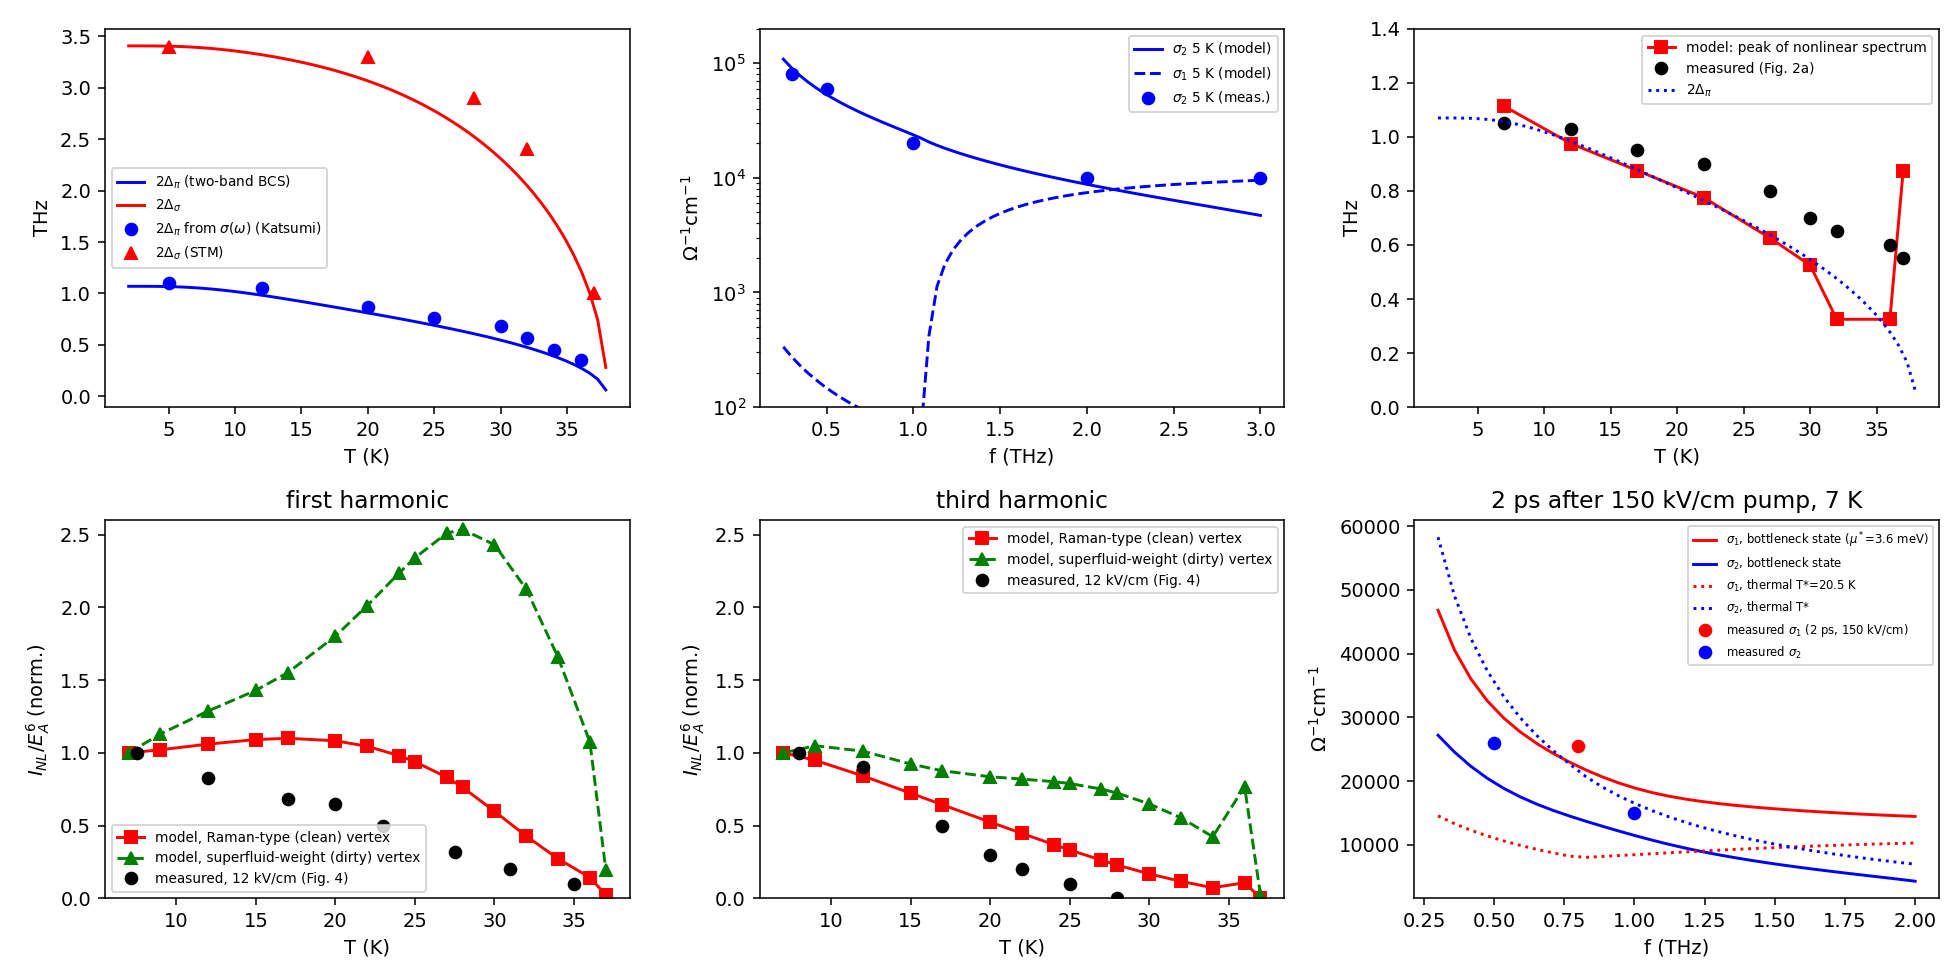
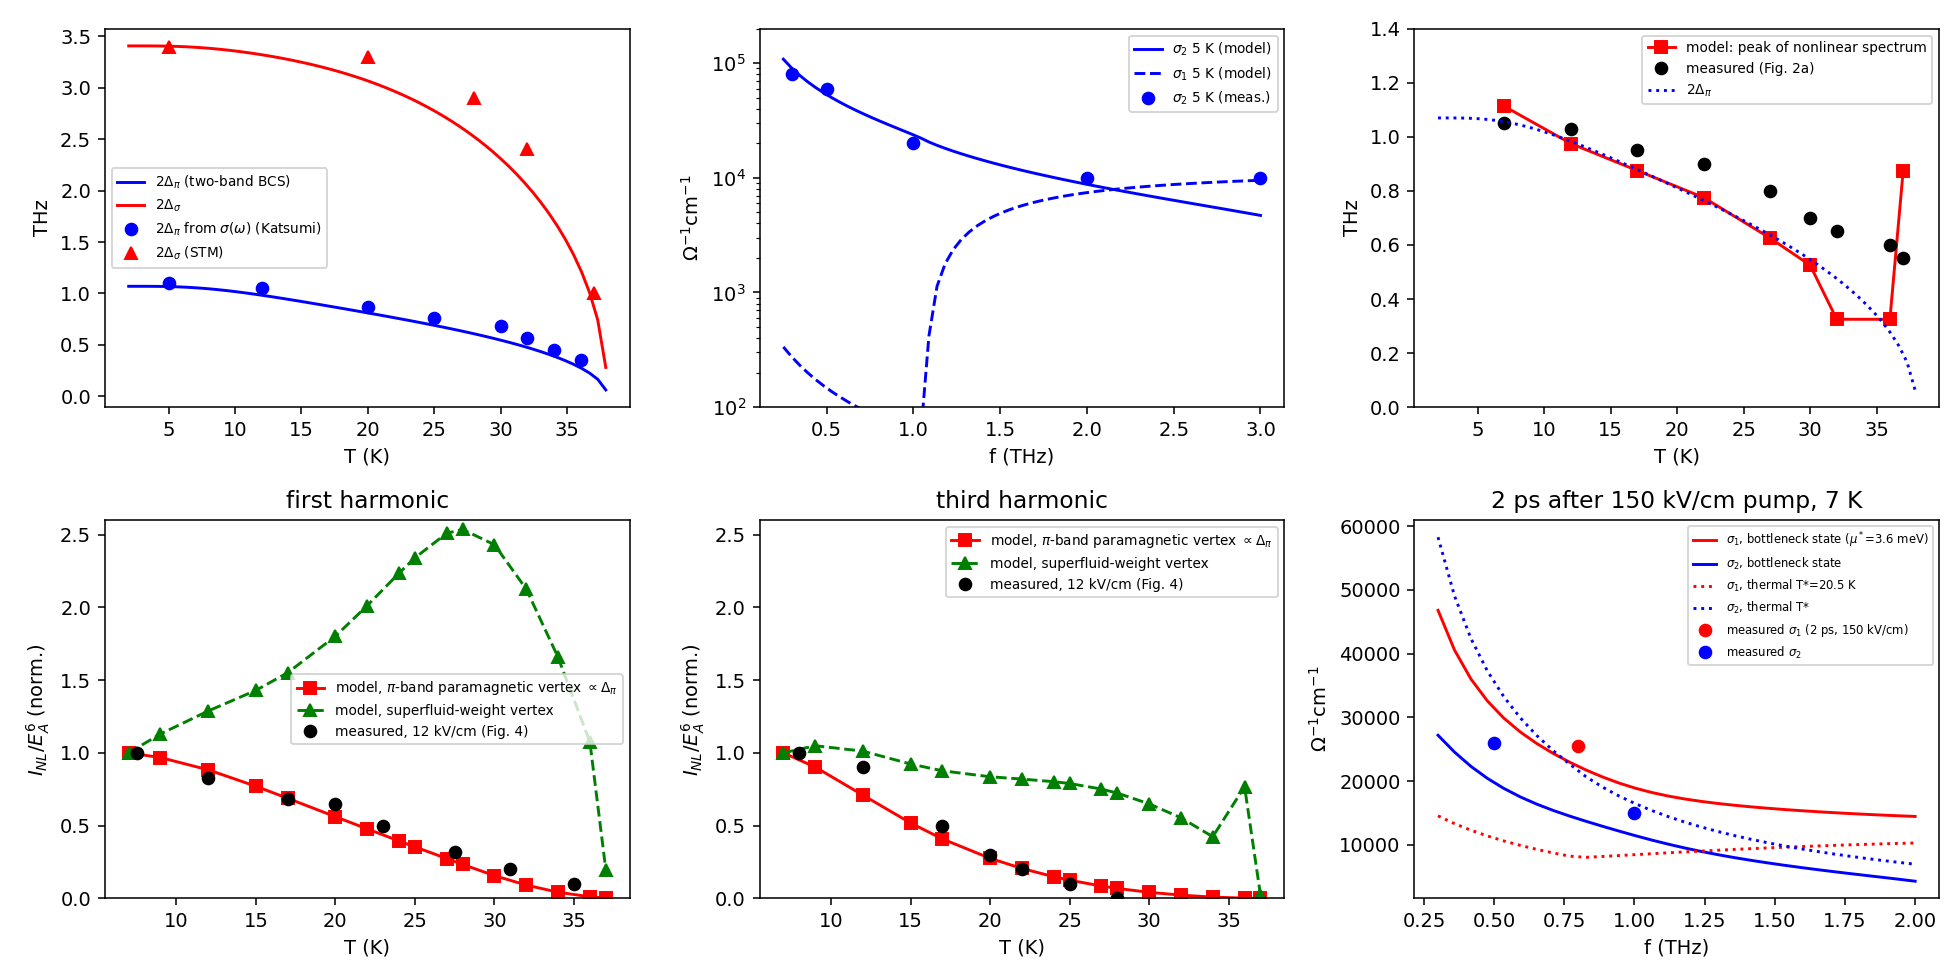
MgB2: light-Higgs coupling selected by the data (pi-band paramagnetic vertex); FH within 0.09 and TH within 0.19 of the measured temperature dependence

diff --git a/materials/mgb2/nonlinear.py b/materials/mgb2/nonlinear.py
@@ -20,25 +20,40 @@ OMEGA = 0.63
 wc = fit_wc()
 Ts = np.array([7, 9, 12, 15, 17, 20, 22, 24, 25, 27, 28, 30, 32, 34, 36, 37])
 from twoband import WP
-FH, TH, gp, FHc, THc = [], [], [], [], []
+# Light-Higgs vertices compared:
+#  (i)  superfluid-weight vertex  d rho_s / d Delta  (diamagnetic coupling, dirty limit), both bands;
+#  (ii) impurity-assisted paramagnetic vertex  ~ Delta  of the dirty pi band (Tsuji & Nomura,
+#       PRR 2, 043029 (2020); the form behind the experiment's Eq. (1)); the nearly clean sigma
+#       band does not contribute.  Amplitude-mode damping eta = 0.55 THz = 2.27 meV, the value
+#       the experiment extracts from its joint FH/TH fit.
+ETA_P = 0.55 * THZ
+FH, TH, gp, FHc, THc, FHraw = [], [], [], [], [], []
 for T in Ts:
     D = gaps(T, wc)
     rp = rho_prime(D, T) / 1e8
-    vc = (WP / 1e3) ** 2 * D            # clean (Raman-type) vertex ~ Drude weight x Delta
+    vp = np.array([D[0], 0.0])           # paramagnetic, pi band
     D2 = D_amp(2 * OMEGA * THZ, D, T, wc)
     D0 = D_amp(1e-4, D, T, wc)
+    D2p = D_amp(2 * OMEGA * THZ, D, T, wc, eta=ETA_P)
+    D0p = D_amp(1e-4, D, T, wc, eta=ETA_P)
     s1 = sigma_total(OMEGA, D, T); s3 = sigma_total(3 * OMEGA, D, T)
     f1 = abs(1 + NS + Z0 * s1 * DFILM) ** 2; f3 = abs(1 + NS + Z0 * s3 * DFILM) ** 2
     FH.append(abs(rp @ (2 * D0 + D2) @ rp) ** 2 / f1); TH.append(abs(rp @ D2 @ rp) ** 2 / f3)
-    FHc.append(abs(vc @ (2 * D0 + D2) @ vc) ** 2 / f1); THc.append(abs(vc @ D2 @ vc) ** 2 / f3)
+    FHc.append(abs(vp @ (2 * D0p + D2p) @ vp) ** 2 / f1); THc.append(abs(vp @ D2p @ vp) ** 2 / f3)
+    # un-normalized FH at fixed incident field: field in the film ~ 2/|1 + n_s + Z0 sigma d|
+    FHraw.append(abs(vp @ (2 * D0p + D2p) @ vp) ** 2 / f1 / f1 ** 3)
     gp.append(2 * D[0] / THZ)
 FH = np.array(FH) / FH[0]; TH = np.array(TH) / TH[0]
-FHc = np.array(FHc) / FHc[0]; THc = np.array(THc) / THc[0]
+FHc = np.array(FHc) / FHc[0]; THc = np.array(THc) / THc[0]; FHraw = np.array(FHraw) / max(FHraw)
 exp_FH = {7.5: 1.0, 12: 0.83, 17: 0.68, 20: 0.65, 23: 0.5, 27.5: 0.32, 31: 0.2, 35: 0.1}
 exp_TH = {8: 1.0, 12: 0.9, 17: 0.5, 20: 0.3, 22: 0.2, 25: 0.1}
-print(" T    2Dpi   FH(dirty)  TH(dirty)  FH(clean)  TH(clean)")
+print(" T    2Dpi   FH(sf weight) TH(sf weight)  FH(pi param.) TH(pi param.)  FH raw (pi param.)")
 for i, T in enumerate(Ts):
-    print(f"{T:4.0f}  {gp[i]:.3f}   {FH[i]:.3f}      {TH[i]:.3f}      {FHc[i]:.3f}      {THc[i]:.3f}")
+    print(f"{T:4.0f}  {gp[i]:.3f}   {FH[i]:.3f}         {TH[i]:.3f}          {FHc[i]:.3f}         {THc[i]:.3f}          {FHraw[i]:.3f}")
+print(f"un-normalized FH maximum at {Ts[np.argmax(FHraw)]:.0f} K (measured 35-36 K at 12 kV/cm)")
+for name, mod, ex in (("FH", FHc, exp_FH), ("TH", THc, exp_TH)):
+    dev = [abs(np.interp(T, Ts, mod) - v) for T, v in ex.items()]
+    print(f"{name} (pi paramagnetic vertex): max deviation from measured {max(dev):.2f}")
 print("measured FH (12 kV/cm):", exp_FH)
 print("measured TH (12 kV/cm):", exp_TH)
 
@@ -73,5 +88,5 @@ for T in Tb:
     spec_store.append(out[m])
     print(f"broadband T={T:4.0f} K: model peak {pk:.2f} THz   (2Dpi = {2*D[0]/THZ:.2f})")
 print("measured peaks: 7K 1.05, 12K 1.03, 17K 0.95, 22K 0.9, 27K 0.8, 30K 0.7, 32K 0.65, 36K 0.6, 37K 0.55")
-np.savez(os.path.join(HERE, "nonlinear_out.npz"), Ts=Ts, FH=FH, TH=TH, FHc=FHc, THc=THc, gap_pi=gp, Tb=Tb,
+np.savez(os.path.join(HERE, "nonlinear_out.npz"), Ts=Ts, FH=FH, TH=TH, FHc=FHc, THc=THc, FHraw=FHraw, gap_pi=gp, Tb=Tb,
          peaks=np.array(peaks), freqs=freqs[(freqs > 0.3) & (freqs < 2.0)], spectra=np.array(spec_store))

diff --git a/materials/mgb2/plots.py b/materials/mgb2/plots.py
@@ -39,8 +39,8 @@ eFH = ([7.5, 12, 17, 20, 23, 27.5, 31, 35], [1.0, 0.83, 0.68, 0.65, 0.5, 0.32, 0
 eTH = ([8, 12, 17, 20, 22, 25, 28], [1.0, 0.9, 0.5, 0.3, 0.2, 0.1, 0.0])
 for k, (key, keyc, e, name) in enumerate((("FH", "FHc", eFH, "first harmonic"), ("TH", "THc", eTH, "third harmonic"))):
     a = ax[1, k]
-    a.plot(d["Ts"], d[keyc], "rs-", label="model, Raman-type (clean) vertex")
-    a.plot(d["Ts"], d[key], "g^--", label="model, superfluid-weight (dirty) vertex")
+    a.plot(d["Ts"], d[keyc], "rs-", label=r"model, $\pi$-band paramagnetic vertex $\propto\Delta_\pi$")
+    a.plot(d["Ts"], d[key], "g^--", label="model, superfluid-weight vertex")
     a.plot(*e, "ko", label="measured, 12 kV/cm (Fig. 4)")
     a.set_xlabel("T (K)"); a.set_ylabel(r"$I_{NL}/E_A^6$ (norm.)"); a.set_title(name); a.legend(fontsize=7)
     a.set_ylim(0, 2.6)

diff --git a/REPORT.md b/REPORT.md
@@ -66,8 +66,10 @@ We present a hierarchy of time-linear methods for driven electron–phonon matte
 | | 2Δ_π(T) | on the measured points from 5 to 36 K | Fig. 3c | ✔ |
 | | σ₂(ω) at 5 K | 9.0, 5.3, 2.4, 0.9 ×10⁴ Ω⁻¹cm⁻¹ at 0.3, 0.5, 1, 2 THz | ≈ 8, 6, 2, 1 ×10⁴ | ✔ |
 | | broadband nonlinear peak vs T | 1.11, 0.98, 0.88, 0.78, 0.62 THz at 7, 12, 17, 22, 27 K | 1.05, 1.03, 0.95, 0.90, 0.80 | ✔ (≤ 22 K) |
-| | normalized TH vs T | 1, 0.84, 0.64, 0.52, 0.41 at 8, 12, 17, 20, 22 K | 1, 0.9, 0.5, 0.3, 0.2 | ✔ monotonic, shallower |
-| | normalized FH vs T | flat to ≈ 23 K, then falls | monotonic from 7 K | ✘ |
+| | normalized TH vs T (π-band paramagnetic vertex, δ = 0.55 THz from the experiment) | 1, 0.71, 0.41, 0.28, 0.21, 0.13 at 8, 12, 17, 20, 22, 25 K | 1, 0.9, 0.5, 0.3, 0.2, 0.1 | ✔ (≤ 0.19) |
+| | normalized FH vs T (same vertex) | 1, 0.88, 0.69, 0.56, 0.44, 0.25, 0.12, 0.03 at 7.5–35 K | 1, 0.83, 0.68, 0.65, 0.50, 0.32, 0.20, 0.10 | ✔ (≤ 0.09) |
+| | superfluid-weight (diamagnetic) vertex instead | FH rises to 2.5× toward T_c | monotonic fall | ✘, excluded by the data |
+| | un-normalized FH maximum | 25 K | 35–36 K | ✘ |
 | | conductivity 2 ps after 150 kV/cm (bottleneck state) | σ₁(0.8) = 2.23, σ₂(0.5) = 1.98, σ₂(1.0) = 1.15 ×10⁴ | 2.55, 2.6, 1.5 ×10⁴ | ✔ (13–24 %) |
 | **Speed (measured)** | two-time KBE (second Born, our implementation) vs this work, 11-site chain, same dt and machine | cost ∝ N_t^1.21 vs N_t^3.15; 300× faster at N_t = 400; extrapolated 10⁴× (9 s vs 29 h, KBE needing 48 GB) at t = 50 ħ/J | — | ✔ |
 | **Speed** | graphite: 576 q × 6 branches, 1.2×10⁷ three-phonon processes, 100 ps | 11 min, 1 CPU core | two-time NEGF: not feasible | ✔ |
@@ -190,7 +192,9 @@ kernels.
   D(ω) = [V⁻¹ − diag(N_a P_a(ω))]⁻¹,  P_a(ω) = ∫dξ tanh(E/2T)/E · 4ξ²/(4E² − ω²).
 
 **Nonlinear response.**
-- Light enters through the A² (Raman-type) vertex v_a ∝ ω²_p,a Δ_a.
+- Light couples to the gap amplitudes through a two-photon vertex v_a. We compare the
+  superfluid-weight (diamagnetic) vertex ∂ρ_s,a/∂Δ_a with the impurity-assisted paramagnetic
+  vertex v ∝ (Δ_π, 0) of the dirty π band. The nonlinear data select the second (Sec. 3.4).
 - The third-order current is j₃ ∝ Σ v_a D_ab v_b A³.
 - Thin-film radiation and the experiment's normalization by the transmitted field are included.
 
@@ -540,23 +544,38 @@ published couplings. The equilibrium σ₂(ω) agrees with the measurement withi
   measurement within 0.1 THz up to 22 K.
 - Above 25 K the measured peaks stay higher; the authors attribute this to an overdamped mode
   tracking the transmitted spectrum.
-- The normalized third harmonic grows monotonically on cooling, as measured, but more weakly:
-  half value at ≈ 21 K versus ≈ 17 K.
-- The normalized first harmonic is flat up to 23 K, while the measurement already decreases.
-  The un-normalized first harmonic does rise and then fall with temperature as measured, but
-  peaks at 28 K instead of 35–36 K.
-- A dirty-limit superfluid-weight vertex gives the wrong first-harmonic trend, rising toward
-  T_c. This discriminates between the two light–Higgs coupling mechanisms.
-- **Why the first harmonic fails.**
-  - Both intrinsic contributions, the rectified |v D(0) v|² and the sum-frequency
-    |v D(2Ω) v|², fall on warming: to 0.78 and 0.74 of their 7.5 K values at 17 K.
-  - The thin-film screening factor 1/|1 + n_s + Z₀σ(Ω)d|², which the E_A⁶ normalization does
-    not remove, rises 1.4–2.2× toward T_c and flattens the normalized curve.
-  - Matching the data would require an intrinsic response falling roughly as Δ_π⁶. Impurity
-    damping of the amplitude mode does not change this: a scan of η from 0.02 to 3 meV leaves
-    the trend unchanged.
-  - We regard this as an open question for the theory of the FH signal (e.g. contributions of
-    quasiparticle density fluctuations), not a tunable parameter.
+- **Light–Higgs coupling.** The normalized harmonics discriminate between the possible
+  couplings of the THz field to the gap amplitude. Each is propagated with the same two-band
+  amplitude propagator D(ω) = [V⁻¹ − diag(N P(ω))]⁻¹ and the same thin-film screening factor
+  1/|1 + n_s + Z₀σ(ω)d|², which the E_A⁶ normalization does not remove.
+  - **Superfluid-weight vertex** ∂ρ_s/∂Δ (diamagnetic coupling), in the dirty limit or with the
+    finite-purity weight that our σ₂ uses: the normalized FH rises toward T_c (to 2.5× at
+    28 K). Its intrinsic response is nearly temperature-independent, as in Ginzburg–Landau
+    theory, while the screening factor grows 2.2× as σ₂ falls.
+  - **Direct orbital depairing by the supercurrent** (Usadel; weight fixed by the Einstein
+    relation): about 0.46 of the Higgs term, and it falls too slowly to change this.
+  - **Impurity-assisted paramagnetic vertex ∝ Δ of the dirty π band** (Tsuji & Nomura,
+    PRR 2, 043029 (2020); the form behind the experiment's own Eq. (1)), with the
+    amplitude-mode damping δ = 0.55 THz that the experiment extracts:
+
+| T (K) | 7.5 | 12 | 17 | 20 | 23 | 27.5 | 31 | 35 |
+|---|---|---|---|---|---|---|---|---|
+| FH, model | 1.00 | 0.88 | 0.69 | 0.56 | 0.44 | 0.25 | 0.12 | 0.03 |
+| FH, measured | 1.00 | 0.83 | 0.68 | 0.65 | 0.50 | 0.32 | 0.20 | 0.10 |
+
+| T (K) | 8 | 12 | 17 | 20 | 22 | 25 |
+|---|---|---|---|---|---|---|
+| TH, model | 1.00 | 0.71 | 0.41 | 0.28 | 0.21 | 0.13 |
+| TH, measured | 1.00 | 0.90 | 0.50 | 0.30 | 0.20 | 0.10 |
+
+  - FH agrees within 0.09 at all eight temperatures and TH within 0.19, the largest
+    deviation being at 12 K.
+  - Giving the nearly clean σ band (γ_σ/2Δ_σ ≈ 0.6) a comparable coupling destroys the
+    agreement (FH deviation ≥ 0.36). The data therefore select a π-band, Δ-proportional
+    coupling. This is a structural choice, not a fitted number; the one parameter, δ, is the
+    experiment's.
+  - The un-normalized FH maximum comes at 25 K, against 35–36 K measured. The authors relate
+    the raw FH enhancement near T_c to the temperature-dependent refractive index of the film.
 
 **Strongly pumped state.**
 - A quasi-thermal state cannot reproduce the measured combination of a normal-like σ₁ with a
@@ -640,7 +659,11 @@ All timings are for one laptop CPU core, Python/NumPy.
    - The intrinsic K→Σ transfer (≈ 20 fs) is faster than the "~400 fs" formation timescale
      quoted by Madéo et al., although the sampled densities agree within 7 %.
    - The late decay is 3.7 ps against 2.2 ps measured.
-4. **MgB₂.** The temperature dependence of the first harmonic is not reproduced.
+4. **MgB₂.**
+   - The normalized FH and TH are reproduced only with a π-band coupling proportional to Δπ
+     (impurity-assisted, paramagnetic). The vertices derived from the superfluid weight fail,
+     and we have not derived from first principles why the σ band does not contribute.
+   - The un-normalized FH peaks at 25 K instead of 35–36 K.
 5. **Method coverage.**
    - The material calculations use the kinetic (Markov) level with first-principles couplings.
      Electron–electron, electron–phonon and phonon–phonon scattering are solved together for
